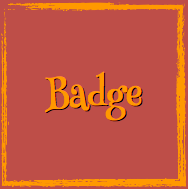
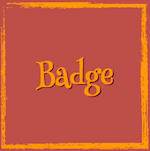
adjusted placeholders

diff --git a/style.css b/style.css
@@ -245,9 +245,10 @@ h2 {
 }
 
 #titleBadges {
-	font-size: 2.2em;
+	font-size: 2em;
 	text-align: center;
-	padding-top: 10%;
+	padding-top: 8%;
+	padding-bottom: 0;
 }
 
 #marginFix {
@@ -261,7 +262,7 @@ h2 {
 }
 
 .happyDing {
-	width: 60%;
+	width: 110px;
 	display: block;
 	margin-left: auto;
 	margin-right: auto;
